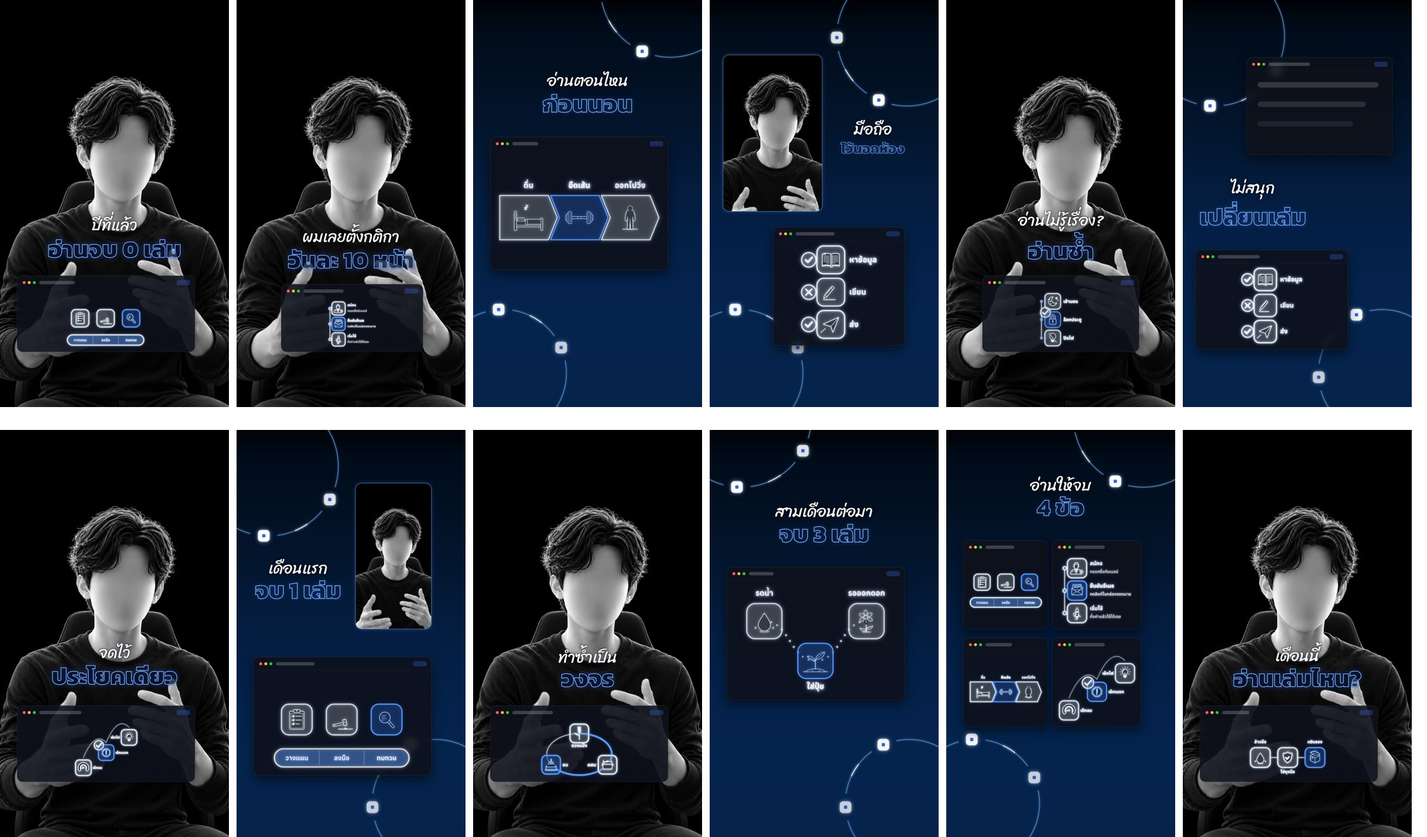
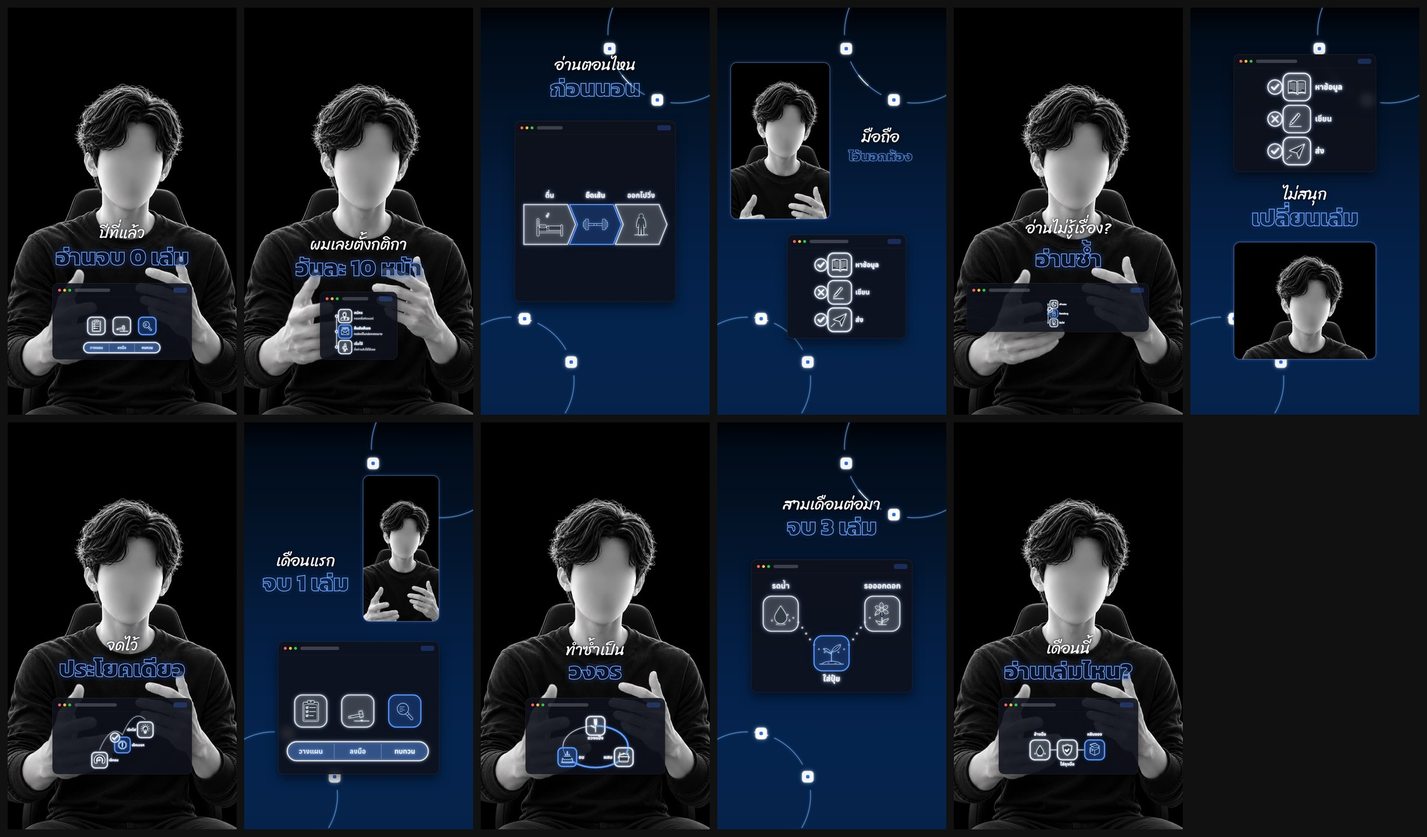
CutPack window.md: brought up to the code (final v2 status and history, stack for cascade, no ring lift, no drawing-size filter, screen choice in code order, hook bug noted, 3-scenario results); still sheet remade for v2 with the stand-in
Claude-Session: https://claude.ai/code/session_01S8EfU7YjmNDhxhQLi4N7NF

diff --git a/cutpack/style-rules/window.md b/cutpack/style-rules/window.md
@@ -1,4 +1,4 @@
-# สกิล "หน้าต่างแอป" (App Window · `window`) · ฉบับ final
+# สกิล "หน้าต่างแอป" (App Window · `window`) · ฉบับ final รุ่น 2
 
 **อ่านคู่กับ `common.md` เสมอ** (ขั้นตอนทำคลิป 8 ขั้น · งาน AI 2 งาน · กฎทุกสไตล์ · ภาพ · ซับ · กล้อง · เสียง) ไฟล์นี้บอกเฉพาะของหน้าต่างแอป
 สร้างคลิปสไตล์นี้: ทำตาม `common.md` ทุกขั้น โดยใส่ `<สไตล์>` = `window` (สรุปคำสั่งหัวข้อ 16)
@@ -10,7 +10,7 @@
 - สไตล์ที่ 3 จาก 12 สไตล์ใหม่ ลอกจากรูป 12 ช็อตโทนน้ำเงินที่ Friend ส่ง (2026-11-18: "สไตล์ต่อไปครับ")
 - ดราฟแรก 2026-11-18 (Friend: "ดราฟแรกผ่านครับ") · ภาพนิ่งดราฟแรก `library/styles/03_window_draft1.jpg`
 - **final ผ่าน 2026-11-18** (Friend: "สไตล์นี้ final ผ่านแล้วครับ update ไฟล์ skill ด้วย") · ภาพนิ่ง final `library/styles/03_window_final.jpg` (ภาพคนจำลอง)
-- **รุ่น 2 (2026-11-19 · ลงโค้ดแล้ว รอ Friend ดู):** มาตรฐาน 7 ขนาด (หัวข้อ 4.1 · Friend: "ใส่ระบบ ขนาด 7 ขนาดด้วย") · hook (หัวข้อ 5.4 · "ใส่ระบบ hook ให้สไตล์นี้") · ตัดจอ `recap` 4 หน้าต่าง ("เอาฉากนี้ออก") · คำพูดเต็ม DECISIONS
+- **final รุ่น 2 ผ่าน 2026-11-20** (Friend ดูคลิป 3 scenario แล้ว: "สไตล์หน้าต่างแอป ผ่านแล้วครับ") · ภาพนิ่ง `library/styles/03_window_final.jpg` (ทำใหม่ 2026-11-24 ภาพคนจำลอง) · ของที่เพิ่มในรุ่น 2: มาตรฐาน 7 ขนาด (หัวข้อ 4.1) · hook (หัวข้อ 5.4) · ตัดจอ `recap` และ `cascade` · จอ `stack` ใหม่ · หน้าต่างจอ ก กลางจอ · ซับเหนือหัวเมื่อใต้คางไม่มีที่ (หัวข้อ 6.1) · ก : ข = 60 : 40 · เลิกคัดจอด้วยขนาดภาพข้างใน · จอน้ำเงินต่อจอน้ำเงินไม่เผยหน้าคั่น · วงแหวนอยู่ที่เดิมหมุนต่อเนื่อง ลูกปัด 6 เม็ด (ตารางคำตัดสินหัวข้อ 15.1 · คำพูดเต็ม DECISIONS)
 - งาน final เริ่มจากคลิปหน้าต่างแอปที่ Friend ส่ง (`edit_2.mp4` ทำก่อนกฎ "เปิดด้วยหน้า" และ "ก/ข เท่ากัน") · จุดแก้ของ Friend หัวข้อ 15
 - ต่างจากรูปของ Friend ตามที่ Friend สั่ง:
   - ไม่มีแถบบทมุมซ้ายบนและป้ายเล็กเหนือคำ ("ลบที่ผมวงกลมสีแดงออกด้วยครับทุกฉากเลย")
@@ -23,7 +23,7 @@
 ## 1. หน้าตาโดยรวม
 | ข้อ | หน้าต่างแอป |
 |---|---|
-| กรอบ | 12 จอ: คนเต็มจอมีหน้าต่างที่มือ (6 แบบ) หรือ **เหนือหัว** · จอน้ำเงิน **หน้าต่างใหญ่กลางจอ** · จอน้ำเงินมีหน้าในกรอบซ้ายบนหรือขวาบน · หน้าต่างซ้อน · ระหว่างภาพคนพูด คำที่อก |
+| กรอบ | 12 จอ: คนเต็มจอมีหน้าต่างที่มือ (6 แบบ) หรือ **เหนือหัว** · จอน้ำเงิน **หน้าต่างใหญ่กลางจอ** (2 แบบ) · จอน้ำเงินมีหน้าในกรอบซ้ายบนหรือขวาบน (`float` `stats`) · จอน้ำเงินหน้าต่างบน คำกลาง หน้าในกรอบล่าง (`stack`) · ระหว่างภาพคนพูด คำที่อก |
 | พื้น | จอน้ำเงินไล่จากเกือบดำด้านบนเป็นกรมท่าด้านล่าง · มุมบนกับมุมล่างมีวงกลมเส้นเดียวเรืองฟ้า ขาดเป็นช่วงตรงที่มีชิปขาว หมุน มีแสงวิ่ง · ภาพอยู่ใน **หน้าต่างแอปสีเกือบดำ** จุดสามสี หัวหน้าต่างแบบ skeleton |
 | ภาพ | glow-line กระจกเทา เส้นขาวเรืองฟ้า ชิ้นที่ติดไฟเป็นขอบฟ้า ไม่ถมทึบ · คนในภาพตัวเทาฟ้า · **ภาพที่วาดเสร็จอยู่กลางหน้าต่าง** (จอไม่มีหน้า) · **คำในภาพไม่มีกล่องและไม่มีขอบมืด** |
 | สี | น้ำเงินเข้ม · หน้าต่างเกือบดำ · ขาว · ฟ้า (คำเด่น `#6FA6FF` · หน้าต่างและชิป `#2F6FEB`) |
@@ -38,7 +38,7 @@
 | หน้าต่าง | มุม 26 · พื้น `rgba(13,17,27,.9)` เบลอข้างหลัง 14 · ขอบ 1.5 px `rgba(255,255,255,.14)` · เงา · แถบหัวสูง 64 เส้นใต้จาง |
 | จุดสามสี | 14 px ที่ x 26 / 50 / 74 y 25: `#FF5F57` `#FEBC2E` `#28C840` |
 | skeleton ชื่อ | แท่งขอบมนสูง 16 ที่ x 104 y 24 `rgba(230,237,248,.22)` ยาว = น้อยกว่าระหว่าง (กว้างหน้าต่าง × .34) กับ (110 + 90 × เลขสุ่มของรอบ) |
-| skeleton ป้าย | แคปซูลเปล่า 64 × 24 มุม 9 ห่างขวา 22 y 20 `rgba(60,120,255,.28)` (หน้าต่างของจอสรุปไม่มี) |
+| skeleton ป้าย | แคปซูลเปล่า 64 × 24 มุม 9 ห่างขวา 22 y 20 `rgba(60,120,255,.28)` |
 | ภาพในหน้าต่าง | `[22, 76, กว้าง − 44, สูง − 98]` (ใต้แถบหัว) |
 | กรอบหน้าคน | ขอบ 2 px `rgba(130,180,255,.65)` เรือง · หน้ากว้าง 42% ของกรอบ (faceY .4) วิดีโอเต็มกรอบ |
 | **คำนำ** `.w-lead` | **Sriracha** (`fonts/Sriracha-Regular.ttf` ตัวเดียวกับคำเด่นลายมือของเขียวมะนาว) 400 · **74 px** · ระยะบรรทัด 1.2 · `#F4F7FC` · เงาดำ 3 / 10 / 18 px |
@@ -62,14 +62,14 @@
 | – | `talk` | คนพูด (ระหว่างภาพ) | – | (540, 1062) · (540, 1175) |
 | 01 | `full` | ก คนพูด | หน้าต่าง `[80, 1300, 840, 360]` ที่มือ | (540, 1062) · (540, 1175) |
 | 02 | `full_n` | ก คนพูด | หน้าต่างแคบ `[210, 1340, 670, 320]` | (540, 1117) · (540, 1226) |
-| 03 | `dark` | ข จอน้ำเงิน | **หน้าต่าง `[80, 645, 840, 630]` กลางจอ** (กลาง y 960) · วงแบบ 0 ยกขึ้น 230 | **(540, 381) · (540, 490)** |
+| 03 | `dark` | ข จอน้ำเงิน | **หน้าต่าง `[80, 645, 840, 630]` กลางจอ** (กลาง y 960) | **(540, 381) · (540, 490)** |
 | 04 | `float` | ข จอน้ำเงิน | กรอบหน้า `[62, 258, 470, 740]` มุม 30 · หน้าต่าง `[300, 1070, 620, 560]` | ขวา (770, 610) · (770, 700) กว้างสุด 470 |
 | 05 | `full_w` | ก คนพูด | หน้าต่างกว้าง `[170, 1300, 740, 360]` | (540, 1040) · (540, 1183) |
-| 06 | **`stack`** (แทน `cascade` 2026-11-20) | ข จอน้ำเงิน | หน้าต่าง `[60, 220, 860, 470]` บนสุด · **กรอบหน้าคนพูดกล่องเท่ากันเป๊ะ** `[60, 1190, 860, 470]` มุม 30 ก้นชิด 1660 (Friend: "ให้ขนาดของการ์ดกับขนาดของช่องที่คนอยู่มันเท่ากันเหมือน reference") · หน้าในกรอบกว้าง 30% อยู่กลางกรอบ (`inset`) | กลางช่องว่างระหว่างกัน กึ่งกลางที่ y 940 เสมอ (540, 885) · (540, 995) |
+| 06 | **`stack`** (แทน `cascade` 2026-11-20) | ข จอน้ำเงิน | หน้าต่าง `[60, 220, 860, 470]` บนสุด · **กรอบหน้าคนพูดกล่องเท่ากันเป๊ะ** `[60, 1190, 860, 470]` มุม 30 ก้นชิด 1660 (Friend: "ให้ขนาดของการ์ดกับขนาดของช่องที่คนอยู่มันเท่ากันเหมือน reference") · หน้าในกรอบกว้าง 30% อยู่กลางกรอบ (`inset`) | ในตาราง (540, 885) · (540, 995) · **ในคลิปโค้ดคิดใหม่ทุกครั้ง** (`winShape`): สองแถวรวมกันกึ่งกลางที่ y 940 → (540, 880) · (540, 990) |
 | 07 | `full_d` | ก คนพูด | หน้าต่าง `[80, 1300, 840, 360]` | (540, 1051) · (540, 1161) |
 | 08 | `stats` | ข จอน้ำเงิน | กรอบหน้า `[560, 250, 360, 690]` มุม 30 · หน้าต่าง `[80, 1070, 840, 560]` | ซ้าย (290, 653) · (290, 756) กว้างสุด 440 |
 | 09 | `full_c` | ก คนพูด | หน้าต่าง `[80, 1300, 840, 360]` | (540, 1073) · (540, 1172) |
-| 10 | `dark_b` | ข จอน้ำเงิน | **หน้าต่าง `[80, 645, 840, 630]` กลางจอ** · วงแบบ 1 ยกขึ้น 230 | **(540, 385) · (540, 490)** |
+| 10 | `dark_b` | ข จอน้ำเงิน | **หน้าต่าง `[80, 645, 840, 630]` กลางจอ** | **(540, 385) · (540, 490)** |
 | 12 | `cta` | ก คนพูด | หน้าต่าง `[80, 1300, 840, 360]` | (540, 1066) · (540, 1172) |
 | ใหม่ | **`full_top`** | ก คนพูด | **หน้าต่างเหนือหัว `[120, 220, 840, สูง]`** สูง = น้อยกว่าระหว่าง 560 กับ (ขอบบนกรอบหน้า − 140 − 220) · เตี้ยกว่า 260 = ใช้ไม่ได้ | (540, 1062) · (540, 1175) |
 
@@ -94,49 +94,52 @@
 | `dark` `dark_b` | **กว้างได้ 760** · สูงได้ `maxH` (ข้อ 6) | **5 หรือ 6 สุ่ม 60:40** | กลางจอ (กลาง y 960) |
 | `float` | 300–920 · 1070–1660 | **3 → 5** | ขอบบน 1070 · กลางแนวนอนในห้อง |
 | `stats` | **(1080 − ขอบขวากรอบหน้า) ถึงขอบขวากรอบหน้า** = 160–920 · ใต้กรอบหน้า + 90 (1030) ถึง 1660 | **5 → 2** | **กลางจอ x 540 · ขอบขวาตรงขอบขวากรอบหน้า · ก้นที่ 1660** (Friend 2026-11-19: "อยากให้เส้นสีแดงกับเส้นสีเหลืองที่ผมขีดไว้ตรงกัน แต่การ์ดต้องอยู่กึ่งกลางจอนะ" · "ทำแค่ฉากนี้ฉากเดียว") · ผล: ขนาด 5 88% = 760 × 627 ที่ y 1033 |
-| `stack` | ใช้สูตรของตัวเอง (ไม่ใช้ห้องแบบจออื่น): กว้างไม่เกิน 860 · สูงไม่เกิน (1440 − ช่องคำ) ÷ 2 เมื่อ 1440 = 220 ถึง 1660 และช่องคำ = ความสูงแถวคำ + เว้น 60 บนล่าง | **5 → 2 → 3** | หน้าต่างห้อยจาก 220 · **กรอบหน้าคนพูด = ขนาดเดียวกันเป๊ะ** ก้นชิด 1660 · ทั้งคู่กลางจอ x 540 · คำอยู่กลางช่องว่าง (กึ่งกลาง y 940 เสมอ) · ผลจริง ขนาด 5 ที่ 78% = 671 × 554 (Friend 2026-11-20: "ใช้การ์ดใหญ่แล้วทำให้มันเหมือน ref ไม่ได้หรอ" → ใช้ขนาด 5 ทรงใกล้ ref แทนขนาด 2 ที่เตี้ย) |
+| `stack` | ใช้สูตรของตัวเอง (ไม่ใช้ห้องแบบจออื่น): กว้างไม่เกิน 860 · สูงไม่เกิน (1440 − ช่องคำ) ÷ 2 เมื่อ 1440 = 220 ถึง 1660 และช่องคำ = ความสูงแถวคำ + เว้น 60 บนล่าง | **5 → 2 → 3** | หน้าต่างห้อยจาก 220 · **กรอบหน้าคนพูด = ขนาดเดียวกันเป๊ะ** ก้นชิด 1660 · ทั้งคู่กลางจอ x 540 · คำอยู่กลางช่องว่าง (กึ่งกลาง y 940 เสมอ) · ผลจริง ขนาด 5 ที่ 78% = 672 × 555 (คำนวณจากโค้ด 2026-11-24 · ฉบับก่อนเขียน 671 × 554) (Friend 2026-11-20: "ใช้การ์ดใหญ่แล้วทำให้มันเหมือน ref ไม่ได้หรอ" → ใช้ขนาด 5 ทรงใกล้ ref แทนขนาด 2 ที่เตี้ย) |
 
 6. **`dark` `dark_b`** (แบบเขียวมะนาว):
    - สุ่ม `cpRand('size' + ลำดับภาพ)`: ≥ .6 = ขนาด 6 · น้อยกว่า = ขนาด 5 (ไม่มีเลขสุ่ม เช่นตอนวัดขนาดล่วงหน้า = 5) · ขนาดที่สุ่มได้ไม่ถึง 65% = อีกขนาด
    - `maxH = 2 × (960 − (220 + 45 + ระยะคำนำถึงคำเด่น + 65 + 90))` · s = น้อยกว่าระหว่าง 1 · **760** ÷ กว้าง · maxH ÷ สูง (Friend 2026-11-20: "4. ข" ให้อยู่กลางจอเป๊ะ · เดิม 860 แล้วเยื้องซ้าย 50)
    - หน้าต่างกลางจอ y 960 · **กลางจอ x 540 เป๊ะ** (กว้างไม่เกิน 760 = x 160–920 ไม่เข้าโซนปุ่ม TikTok · โค้ดยังกันไม่ให้เกิน 60–920) · คำเด่นอยู่เหนือหน้าต่าง 90 (ขอบล่างแถวคำเด่น = กลาง + 65) · คำนำห่างคำเด่นเท่าเดิม · คำนำไม่ขึ้นเกิน 220 (แถบค้นหา)
-   - วงแหวนบนยกขึ้นตามคำ (`ringUp` = 230 + ที่หน้าต่างสูงเกิน y 645)
+   - วงแหวนไม่ขยับตามคำแล้ว (เลิก `ringUp` 2026-11-20 · หัวข้อ 3)
    - ผลจริง: ขนาด 5 = 760 × 628 (88%) · ขนาด 6 = 760 × 853 (88%)
-7. ภาพนิ่งทดสอบ (บังคับจอ `meta.layout`) ใช้ห้องตามรูป ไม่ดูหน้า: `full` = ขนาด 2 77% (659 × 360) · `full_n` = 3 65% (366 × 320) · `full_w` = 1 100% · `float` = 3 100% · `stats` = 5 88% (760 × 627) · `stack` = 2 100% (860 × 470)
+7. ภาพนิ่งทดสอบ (บังคับจอ `meta.layout`) ใช้ห้องตามรูป ไม่ดูหน้า: `full` = ขนาด 2 77% (659 × 360) · `full_n` = 3 65% (366 × 320) · `full_w` = 1 100% · `float` = 3 100% · `stats` = 5 88% (760 × 627) · `stack` = 5 78% (672 × 555 · สูตรของตัวเอง ไม่ใช้ห้องตามรูป)
 
 ## 5. วิธีเลือกจอและภาพ (โค้ดทำเองทั้งหมด `frame`)
 ### 5.1 แบบของภาพ (ทุกสไตล์ `common.md` · `tools/fit_pick.js`)
-`clip_plan.py` วัดทุกแบบในคลังด้วยคำของคลิปนั้น ถาม `fitSize` (`cpFitSize` เก็บ .75 · จอ ก ใช้ขั้นต่ำ `CP.speakerFloor`) แล้วสุ่มจากแบบที่ใหญ่ · `frame()` ใช้ทรงจริงของภาพ (`cpShape` จาก `REAL_SHAPES`) · `fitSurface` = พื้นจอน้ำเงิน
+`clip_plan.py` วัดทุกแบบในคลังด้วยคำของคลิปนั้น ถาม `fitSize` = ค่าเฉลี่ยขนาดภาพของทุกจอที่หน้าให้ที่ (`cpFitSize` keep 0 · `CP.speakerFloor = 0`: ไม่ตัดจอไหนออก) แล้วสุ่มจากแบบที่ใหญ่ · **ใช้เลือกแบบภาพเท่านั้น ไม่ใช้เลือกจอ** (`common.md` 4.1 กฎ 8) · `frame()` ไม่ดูทรงของภาพเลย · `fitSurface` = พื้นจอน้ำเงิน
 
-### 5.2 จอของแต่ละภาพ
-1. ประโยคชวนกดติดตาม (B15) → `cta` · ประโยคเด็ด (B14) → `dark` (ถ้าหน้าให้ที่)
-2. ที่เหลือจากกอง 12 จอ: `full` `full_n` `dark` `float` `full_w` `cascade` `full_d` `stats` `full_c` `dark_b` `cta` `full_top`
-   - ไม่ซ้ำจอก่อนหน้า
-   - **`winFit` ปรับจอคนพูดให้เข้ากับหน้าช่วงนั้น** (ทุกจอ ก รวม `talk` และ `full_top`):
-     1. คำที่อก (และขอบบนหน้าต่างล่าง) เลื่อนลงให้อยู่ใต้คาง 30 · คำเด่นไม่หลุดล่าง 1660 → ใช้ตำแหน่งนี้ · ห้องของหน้าต่าง = ใต้คำถึง 1660 (`full_top`: 220 ถึงเหนือหัว 140) แล้ว `winShape` หาขนาดตามหัวข้อ 4.1 · ไม่มีขนาดถึง 65% = ใช้ไม่ได้
-     2. **คำเด่นหลุด 1660 (ใต้คางไม่มีที่) → ซับเหนือหัว เฉพาะตอนนี้** (หัวข้อ 6.1) · จอที่หน้าต่างอยู่ใต้หน้า = ใช้ไม่ได้
-   - จอน้ำเงินใช้ได้เสมอ
-   - ไม่มีจอไหนให้ที่ → `dark` `float` `cascade`
-3. **ไม่มีการคัดจอด้วยขนาดภาพข้างในเลย** (ลบ `cpSizeKeep` + `cpShape` ออกจาก `frame` แล้ว 2026-11-20 · `setup` ตั้ง `CP.speakerFloor = 0` · `common.md` 4.1 กฎ 8 · Friend: "เรายังคัดจากขนาดภาพข้างในอยู่อีกหรอ") = ทุกจอที่หน้าต่างถึง 65% ของขนาดมาตรฐาน (หัวข้อ 4.1) อยู่ในกองเท่ากันหมด · ก่อนแก้ จอที่หน้าต่างเล็กกว่า (`float` 560 × 490) แพ้ `dark` (760 × 628) ทุกครั้ง จึงไม่เคยขึ้นเลย
-4. **ก : ข = 60 : 40** (`winBalance` · `WIN.speakerShare = .6` · Friend 2026-11-20: "สไตล์นี้ผมอยากให้ลดฉากสีน้ำเงินลงนิดนึงแล้วก็เพิ่มฉากโอเวอร์เลย์มากขึ้นหน่อย" → "E ครับ"): ภาพที่ลงได้ทั้งสองแบบ เลือกแบบที่คลิปใช้ไปน้อยกว่าสัดส่วน (ใช้แล้ว ÷ สัดส่วน น้อยกว่า) · เท่ากัน = สุ่มจากเลขของรอบ ถ่วง 60:40 · ลงได้แบบเดียว = แบบนั้น · (สไตล์อื่นใช้ `cpBalance` 50:50)
-5. **จอ ก: หน้าต่างบนหัวกับหน้าต่างล่างเท่ากัน** (final ข้อ 3, Friend: "เพื่อความหลากหลาย"): ถ้ากองมีทั้งสองแบบ เลือกแบบที่คลิปใช้น้อยกว่า (`WIN.place {top, low}`) เท่ากันสุ่มจากเลขของรอบ (`cpRand('place' + ลำดับ)`) · หน้าสูงจนเหนือหัวไม่มีที่ = ล่างอย่างเดียว
-6. จอที่ใช้น้อยที่สุดก่อน แล้วสุ่มจากเลขของรอบ
+### 5.2 จอของแต่ละภาพ (ทำตามลำดับ ทุกข้อเป็นโค้ด)
+**`winFit` ปรับจอคนพูดให้เข้ากับหน้าช่วงนั้น** (ทุกจอ ก รวม `talk` และ `full_top` · จอน้ำเงินใช้ได้เสมอ):
+- ก. คำที่อก (และขอบบนหน้าต่างล่าง) เลื่อนลงให้อยู่ใต้คาง 30 · คำเด่นไม่หลุดล่าง 1660 → ใช้ตำแหน่งนี้ · ห้องของหน้าต่าง = ใต้คำถึง 1660 (`full_top`: 220 ถึงเหนือหัว 140) แล้ว `winShape` หาขนาดตามหัวข้อ 4.1 · ไม่มีขนาดถึง 65% = ใช้ไม่ได้
+- ข. **คำเด่นหลุด 1660 (ใต้คางไม่มีที่) → ซับเหนือหัว เฉพาะตอนนี้** (หัวข้อ 6.1) · จอที่หน้าต่างอยู่ใต้หน้า = ใช้ไม่ได้
+
+ลำดับการเลือก:
+1. ประโยคชวนกดติดตาม (B15) → `cta` · ประโยคเด็ด (B14) → `dark` · ใช้เมื่อ `winFit` ผ่าน · ภาพ hook ใช้ได้เฉพาะ `cta` (`dark` ไม่ใช่จอ ก) · ข้อนี้ไม่ดูจอของภาพก่อนหน้า · ไม่ได้ = ไปข้อ 2
+2. กอง 12 จอ `full` `full_n` `dark` `float` `full_w` `stack` `full_d` `stats` `full_c` `dark_b` `cta` `full_top` เก็บจอที่ไม่ใช่จอของภาพก่อนหน้า และ `winFit` ผ่าน
+3. ภาพ hook: ถ้ากองมีจอ ก เหลือแต่จอ ก (หัวข้อ 5.4)
+4. กองว่าง → `dark` `float` `stack` (ตัดจอของภาพก่อนหน้า) · กันพังเท่านั้น: ไม่เกิดจริง เพราะจอน้ำเงิน 5 จอใช้ได้เสมอ (ตัดจอก่อนหน้าแล้วยังเหลืออย่างน้อย 4)
+5. **ไม่มีการคัดจอด้วยขนาดภาพข้างในเลย** (ลบ `cpSizeKeep` + `cpShape` ออกจาก `frame` แล้ว 2026-11-20 · `setup` ตั้ง `CP.speakerFloor = 0` · `common.md` 4.1 กฎ 8 · Friend: "เรายังคัดจากขนาดภาพข้างในอยู่อีกหรอ") = ทุกจอที่หน้าต่างถึง 65% ของขนาดมาตรฐาน (หัวข้อ 4.1) อยู่ในกองเท่ากันหมด · ก่อนแก้ `float` ไม่เคยขึ้นเลย
+6. **ก : ข = 60 : 40** (`winBalance` · `WIN.speakerShare = .6` · Friend 2026-11-20: "สไตล์นี้ผมอยากให้ลดฉากสีน้ำเงินลงนิดนึงแล้วก็เพิ่มฉากโอเวอร์เลย์มากขึ้นหน่อย" → "E ครับ"): จอ ก = จอ `speaker` · จอ ข = จอน้ำเงินทั้งหมด (รวม `float` `stats` `stack` ที่มีหน้าในกรอบ) · กองมีทั้งสองแบบ → เก็บแบบที่คลิปใช้ไปน้อยกว่าสัดส่วน (ใช้แล้ว ÷ สัดส่วน น้อยกว่า) · เท่ากัน = สุ่ม `cpRand('kind' + ลำดับ)` ถ่วง 60:40 · มีแบบเดียว = แบบนั้น · (สไตล์อื่นใช้ `cpBalance` 50:50) · ภาพจากข้อ 1 ไม่ถูกนับในสัดส่วนนี้
+7. **จอ ก: หน้าต่างบนหัวกับหน้าต่างล่างเท่ากัน** (final ข้อ 3, Friend: "เพื่อความหลากหลาย"): ถ้ากองมีทั้งสองแบบ เลือกแบบที่คลิปใช้น้อยกว่า (`WIN.place {top, low}`) เท่ากันสุ่มจากเลขของรอบ (`cpRand('place' + ลำดับ)`) · หน้าสูงจนเหนือหัวไม่มีที่ = ล่างอย่างเดียว · `full_top` เป็นจอบนหัวจอเดียว จึงขึ้นบ่อยเท่ากับจอล่าง 6 จอรวมกัน (ตัวจำลองคลิปถ่ายไกล 2026-11-24: `full_top` ราวครึ่งหนึ่งของจอ ก)
+8. จอที่ใช้น้อยที่สุดก่อน แล้วสุ่มจากเลขของรอบ (`cpRand('screen' + ลำดับ)`)
 - ช่วงพูดระหว่างภาพ: `talk` เสมอ (คำที่อก เลื่อนลงใต้คางถ้าหน้าต่ำ · ใต้คางไม่มีที่ = เหนือหัว หัวข้อ 6.1 · เหนือหัวก็ไม่มีที่ = ตำแหน่งตามรูป ซึ่งทับหน้าได้ ยังไม่เคยเจอ)
 - คลิปเปิดด้วยคนพูดเสมอ (สไตล์นี้ไม่มี `openFace` · `common.md`)
+
+### 5.3 ภาพกลางหน้าต่าง (final ข้อ 4)
+จอน้ำเงินที่ไม่มีกรอบหน้า (`L.screen && !L.frame` = `dark` `dark_b`) ส่ง `room: {l: 22, t: 8, r: 22, b: 22}` ให้ `glowFit` (`motionFit`): มุมมองขยาย **เท่ากันทุกด้านรอบภาพที่วาดเสร็จ** (ไม่เกิน 1.6 เท่า) ภาพตอนจบอยู่กลางหน้าต่างพอดี · เดิมขยายรอบท่าขยับทั้งหมด ภาพเลยไปกองด้านล่าง (Friend: "ตอนนี้มันอยู่เกือบติดขอบล่าง") · ท่าขยับที่ใหญ่กว่านั้นโดนขอบหน้าต่างตัดระหว่างขยับ (เช่น วงรอบแว่นขยาย วินาที 37 ของคลิปทดสอบ) · จอที่มีหน้าและจอ ก ใช้แบบเดิม (`room` null)
+
 
 ### 5.4 hook (2026-11-19 · Friend: "ใส่ระบบ hook ให้สไตล์นี้" · ทดลองสไตล์ที่ 2 ต่อจากเขียวมะนาว)
 1. `RULES['window']` มี `hook=(1.8, 3.2)` → `clip_plan.py` (`with_hook`) ให้คนพูดล้วนกับซับถึงบรรทัดแรกที่เริ่มในช่วง 1.8–3.2 วินาที แล้วภาพแรกเริ่มที่บรรทัดนั้น (ทำงานเหมือน `lime.md` หัวข้อ 5 ทุกข้อ) · แผนพิมพ์ `hook: the speaker alone to <วินาที> s …` และ `plan_window.js` มี `RUN.hook = true`
 2. **ตรวจก่อนวางแผน (`hookOK` · 2026-11-20 Friend: "1. ก" · ข้อ 1 ข. "ไม่ทำ hook ในคลิปนั้น")**:
-   - `tools/fit_pick.js` ถามสไตล์ `ST.hookOK(t0, t1)` = ช่วงนั้นมีจอ ก ที่หน้าต่างได้ขนาดมาตรฐาน (`winFit`) ไหม · ไม่วัดขนาดภาพข้างใน (กฎ 8)
+   - `tools/fit_pick.js` ถามสไตล์ `ST.hookOK(ar, t0, t1)` = ช่วงนั้นมีจอ ก ที่หน้าต่างได้ขนาดมาตรฐาน (`winFit`) ไหม · ไม่วัดขนาดภาพข้างใน (กฎ 8) · ไม่ดูทรงภาพ `ar` (รับไว้ตามรูปแบบของ `fit_pick.js`)
    - ภาพแรกเลือกได้เฉพาะแบบที่ผ่าน · **ไม่มีแบบไหนผ่าน → `clip_plan.py` วางแผนใหม่แบบไม่มี hook** (เปิดแบบเดิม ภาพแรกตามที่ AI วาง) พิมพ์ `window: hook: no speaker screen has room for the first picture, planned again without the hook`
    - โค้ดกลางนี้เปิดเฉพาะสไตล์ที่มี `hookOK` (ตอนนี้หน้าต่างแอปเท่านั้น) · สไตล์อื่นได้แผนเหมือนเดิมทุกจุด (ตรวจเขียวมะนาวและนีออนฟ้า seed 449159 แล้ว)
+   - **บั๊กที่รู้แล้ว (HANDOFF · ยืนยัน 2026-11-24 ด้วยตัวจำลอง):** `hookOK` และข้อ 3 นับแค่จอ ก ไม่นับจอน้ำเงินที่มีหน้าในกรอบ (`float` `stats` `stack`) ทั้งที่ Friend บอกว่า "เปิดคลิปด้วยหน้าในกรอบเล็กนับด้วยครับ" → คลิปถ่ายใกล้ไม่ได้ hook เลย (300/300 seed) · Friend สั่งแก้ในงานข้อ 3
 3. `frame` ภาพแรก (`index 0`) เมื่อ `RUN.hook`: จอตามหมวด (`byCat`) ใช้ได้เฉพาะจอ ก · กองสุ่มเหลือแต่จอ ก (`speaker`) ที่หน้าให้ที่
-4. กันพังเท่านั้น (ข้อ 2 ทำให้ไม่ควรเกิด): ไม่มีจอ ก ไหนให้ที่ = กองปกติ · จอ ก ให้ที่แต่ภาพต่ำกว่าขั้นต่ำทุกจอ = จอ ก ที่ภาพใหญ่สุด (ไม่ปล่อยกองว่าง)
+4. กันพังเท่านั้น (ข้อ 2 ทำให้ไม่ควรเกิด): ไม่มีจอ ก ไหนให้ที่ = กองปกติ
 5. ผล (2026-11-20 ก่อนเลิกขั้นต่ำ): คลิป 4 ภาพแรกทรงแถบยาวใน `full_top` ขนาด 1 · คลิป 2 (หน้าต่ำมาก ไม่มีที่ทั้งเหนือหัวและใต้คาง): ไม่มี hook
 6. ผลคลิป 3 (71.4 วินาที คลิปเดียวกับ final เก่าที่ Friend ส่ง · seed 176294): คนพูดล้วนถึง 2.72 วินาที ภาพแรกจอ `cta` ขนาด 2 77%
-
-### 5.3 ภาพกลางหน้าต่าง (final ข้อ 4)
-จอน้ำเงินที่ไม่มีกรอบหน้า (`L.screen && !L.frame` = `dark` `dark_b`) ส่ง `room: {l: 22, t: 8, r: 22, b: 22}` ให้ `glowFit` (`motionFit`): มุมมองขยาย **เท่ากันทุกด้านรอบภาพที่วาดเสร็จ** (ไม่เกิน 1.6 เท่า) ภาพตอนจบอยู่กลางหน้าต่างพอดี · เดิมขยายรอบท่าขยับทั้งหมด ภาพเลยไปกองด้านล่าง (Friend: "ตอนนี้มันอยู่เกือบติดขอบล่าง") · ท่าขยับที่ใหญ่กว่านั้นโดนขอบหน้าต่างตัดระหว่างขยับ (เช่น วงรอบแว่นขยาย วินาที 37 ของคลิปทดสอบ) · จอที่มีหน้าและจอ ก ใช้แบบเดิม (`room` null)
 
 ## 6. ซับ (`text`)
 ### 6.1 ซับเหนือหัว (2026-11-20 · Friend: "2. เอาตามที่คุณแนะนำครับ" · ใช้เฉพาะคลิปที่มีปัญหา ไม่ใช่ตำแหน่งถาวร)
@@ -181,35 +184,43 @@
 ## 11. ภาพนิ่งทดสอบ
 - `engine/uni/glow/window_test.js` **11 ช็อต** ตามรูปของ Friend (w11 `recap` ตัดออก 2026-11-19) · รายชื่อ `"window:w01@0 … window:w12@10"`
 - คำสั่ง (จาก `engine/uni/`): `bash tools/style_stills.sh <out> ../../library/styles/speaker_standin.jpg window` → `window 11 ok · 0 outside` · ผลรุ่น 2: สีผ่านครบ 11 ช็อต
-- ภาพนิ่ง final `library/styles/03_window_final.jpg` (6 × 2 ช่อง 360 × 640 · รุ่น 1 ยังมี recap · ทำใหม่เมื่อรุ่น 2 ผ่าน)
+- ภาพนิ่ง final `library/styles/03_window_final.jpg` (6 × 2 ช่อง 360 × 640 · รุ่น 2 ทำใหม่ 2026-11-24 จาก 11 ช็อตด้วยภาพคนจำลอง · ช่องสุดท้ายว่าง)
 
-## 12. ผลคลิปจริง (final, คลิปทดสอบ 41.9 วินาที "เวลาลูกค้า…ให้ถูกจุด" · seed 585652)
+## 12. ผลคลิปจริง
+### 12.0 รุ่น 2 · 3 scenario (2026-11-20 · ซับ Haiku + วางภาพ Sonnet ชุดเดิมของแต่ละคลิป · เรนเดอร์ HQ แล้ว · Friend: "สไตล์หน้าต่างแอป ผ่านแล้วครับ")
+| scenario | คลิป · seed | ผล |
+|---|---|---|
+| ถ่ายใกล้ (หน้าต่ำ) | คลิป 2 · seed 64325 | `OUTSIDE 0` · **ไม่มี hook** (แผนพิมพ์ `no speaker screen has room …` ภาพแรกขึ้นวินาทีที่ 20 · บั๊กหัวข้อ 5.4) |
+| ถ่ายปกติ | คลิป 3 · seed 176294 | `OUTSIDE 0` · −14.1/−14.2 LUFS |
+| ถ่ายไกล | คลิป 5 · seed 673444 | `OUTSIDE 0` · −14.1/−14.2 LUFS |
+
+### 12.1 final รุ่น 1 (คลิปทดสอบ 41.9 วินาที "เวลาลูกค้า…ให้ถูกจุด" · seed 585652)
 - 8 ภาพ 74% ของคลิป · เปิดด้วยคนพูด
 - จอ ก 4: `full_top` 2 (วินาที 5.0 · 25.0) · `full_w` · `full_n` · จอ ข 4: `dark` · `stats` · `dark_b` 2
 - ภาพเฉลี่ย 9% ของจอ (จอ ข 11–17% · จอ ก 2–4%) · 0 หลุดโซน · ทับหน้า 0 · −14.2 LUFS · เรนเดอร์ 211 วินาที
 - คลิปดราฟแรก (seed 84893): 11 ภาพ ภาพเฉลี่ย 12% มีแต่จอ ข
 
-## 12.1 ผลคลิป 3 รุ่น 2 (2026-11-19 · 71.4 วินาที · seed 176294 · build อย่างเดียว ยังไม่เรนเดอร์)
+### 12.2 คลิป 3 ตอนลงโค้ดรุ่น 2 (2026-11-19 · 71.4 วินาที · seed 176294 · build อย่างเดียว · ก่อนแก้ 2026-11-20 ทั้งหมด)
 - 12 ภาพ 62% ของคลิป · hook 2.72 วินาที (`cta`)
 - จอ ก 6: `cta` `full_n` `full_d` 2 `full` `full_c` (ขนาด 2 77% ทุกจอ ยกเว้น `full_n` ขนาด 3 65%) · จอ ข 6: `dark` 3 `dark_b` 3 (ขนาด 5 100% × 3 · ขนาด 6 89–90% × 3)
 - `card_sizes.js`: หน้าต่างตรงขนาดมาตรฐานทุกภาพ (±1 px)
 
 ## 13. รายการค้าง (เล็ก ไม่กระทบ final)
-- ภาพในจอ ก เล็ก (2–4%: หน้าต่างล่างสูง 360 · หน้าต่างบนหัวสูงตามที่ว่าง) แบบภาพถูกเลือกก่อนรู้จอ (Friend ยังไม่ได้ตัดสินว่าจะให้เลือกจอก่อนไหม)
+- แบบภาพถูกเลือกก่อนรู้จอ (งานอนาคตข้อ 2 ใน `README.md` · Friend ยังไม่ได้ตัดสิน) · ภาพชุดเก่าในหน้าต่างอาจดูเล็ก/โล่ง **ไม่ใช่เหตุผลเลือกหรือตัดจอ** (LESSONS 76 · ภาพชุดใหม่จะเต็มทั้ง 7 ขนาด)
 - ท่าขยับใหญ่ของบางภาพโดนขอบหน้าต่างตัดระหว่างขยับ (หัวข้อ 5.3)
 - วงตกแต่งรอบภาพบางวงจางกว่าที่ตัวตรวจกำหนด (2.15–2.56:1) · ชิปของวงแหวนบางชิ้นอยู่หลังหน้าต่าง
-- หน้าต่างหลังของ `cascade` เป็นแถบจาง ๆ
 - ~~ซับทับปาก/คางตอนหน้าต่ำมาก~~ แก้แล้ว 2026-11-20 (หัวข้อ 6.1)
 - ขนาด 1 ที่ 65% (559 × 150) หลังหักแถบหัว 64 ภาพเหลือสูง 52 · Friend 2026-11-20: "ปล่อยไว้แบบนี้ไว้เพราะยังไงเราก็ต้องทำภาพชุดใหม่"
 
 ## 14. ไฟล์โค้ด
 | ไฟล์ | เรื่อง |
 |---|---|
-| `engine/uni/styles/window.js` | จอ 12 แบบ · `winFit` (หน้า · `full_top`) · `WIN_STD` `WIN_ORDER` `WIN_MIN` `winShape` (7 ขนาด) · hook (`RUN.hook`) · css สี ฟอนต์ ซับ · วงแหวน (`ringUp`) · skeleton · เลือกจอ (`WIN.place`) · `room` ของจอไม่มีหน้า · `fitSize` `fitSurface` |
-| `engine/uni/styles/common.js` | `cpFitSize` (เลือกแบบภาพ) `cpBalance` · กฎทุกสไตล์ · (`cpShape` `cpSizeKeep` หน้าต่างแอปไม่ใช้แล้ว 2026-11-20) |
+| `engine/uni/styles/window.js` | จอ 12 แบบ (`WIN.layouts` `WIN.pool` `WIN.byCat`) · `winFit` (หน้า · `full_top` · ซับเหนือหัว) · `WIN_STD` `WIN_ORDER` `WIN_MIN` `winShape` (7 ขนาด · `dark` สุ่ม 5/6 · `stack`) · `winBalance` (60:40) · hook (`RUN.hook` · `hookOK`) · css สี ฟอนต์ ซับ · วงแหวน (`WIN.decor` `WIN.ring` `WIN.spin` `winRingPath`) · skeleton · เลือกจอ (`WIN.place`) · จอน้ำเงินต่อจอน้ำเงิน · `room` ของจอไม่มีหน้า · `fitSize` `fitSurface` |
+| `engine/uni/styles/common.js` | `cpFitSize` (เลือกแบบภาพ) `cpFaceBox` `cpInset` `cpRand` · กฎทุกสไตล์ · (`cpShape` `cpSizeKeep` `cpBalance` หน้าต่างแอปไม่ใช้แล้ว · ใช้ `winBalance` แทน `cpBalance`) |
 | `engine/uni/glow/bridge.js` | `GLOWLOOK.window` `GLASSY.window` · `glowFit` (`room`) · `glowNoPill` · ตัวตรวจสี |
 | `engine/uni/fonts/` | `Kanit-800-*.woff` (คำเด่น) · `Sriracha-Regular.ttf` (คำนำ) |
-| `engine/uni/tools/clip_plan.py` | `RULES['window']` (`hook`) · ฉากตามประเด็น · `fit_picks` · `with_hook` |
+| `engine/uni/tools/clip_plan.py` | `RULES['window']` (`hook`) · ฉากตามประเด็น · `fit_picks` · `with_hook` · วางแผนใหม่เมื่อ `hookFail` |
+| `engine/uni/tools/fit_pick.js` | ถาม `ST.hookOK` สำหรับภาพแรก · ส่ง `hookFail` |
 | `engine/uni/tools/card_sizes.js` | วัดหน้าต่างทุกภาพกับขนาดมาตรฐาน (`data-std`) |
 | `engine/uni/glow/window_test.js` | ภาพนิ่ง 11 ช็อต |
 
@@ -223,12 +234,29 @@
 | 4 | "ทำให้ motion graphic อยู่กึ่งกลาง ... (แค่สไตล์นี้)" → "ข. แต่ระวังอย่าให้การ์ดกับซับไตเติ้ลติดกันมากเกินไป" → "ที่ผมต้องการคือให้การ์ดไปอยู่ตรงกลางของจอเลยและเอา subtitle ขึ้นไปอีกเว้นระยะห่างระหว่างการ์ดเท่าเดิม" | หน้าต่างกลางจอ คำเหนือหน้าต่าง 90 px · ภาพกลางหน้าต่าง (`room`) · วงบนยกขึ้น 230 |
 | 5 | "ลบกรอบตัวหนังสือที่ motion graphic ออกด้วยครับ" | `noPill` (กล่องที่มีแต่คำ) · `noEdge` |
 
+### 15.1 รุ่น 2 (2026-11-19 – 20 · คำพูดเต็มใน DECISIONS)
+| # | Friend | ทำอย่างไร |
+|---|---|---|
+| 1 | "ใส่ระบบ ขนาด 7 ขนาดด้วย" | หน้าต่าง = ขนาดมาตรฐาน (หัวข้อ 4.1) |
+| 2 | "ใส่ระบบ hook ให้สไตล์นี้" · "1. ก" | hook + `hookOK` (หัวข้อ 5.4) |
+| 3 | "เอาฉากนี้ออก" (recap) | ตัดจอ `recap` |
+| 4 | "อยากให้เส้นสีแดงกับเส้นสีเหลืองที่ผมขีดไว้ตรงกัน แต่การ์ดต้องอยู่กึ่งกลางจอนะ" | `stats` หน้าต่างกลางจอ ขอบขวาตรงกรอบหน้า |
+| 5 | "3. ย้ายไปกลางจอ" · "4. ข" | หน้าต่างจอ ก กลาง x 540 · `dark` กว้างไม่เกิน 760 กลางจอเป๊ะ |
+| 6 | "2. เอาตามที่คุณแนะนำครับ" | ซับเหนือหัวเฉพาะตอนใต้คางไม่มีที่ (หัวข้อ 6.1) |
+| 7 | "จังหวะเปลี่ยนฉากมันสลับมาเป็นหน้าผมประมาณเสี้ยววินาทีนึงอะ" | จอน้ำเงินต่อจอน้ำเงิน จอเก่าค้างใต้จอใหม่ (หัวข้อ 7) |
+| 8 | "ลดฉากสีน้ำเงินลงนิดนึง … เพิ่มฉากโอเวอร์เลย์มากขึ้นหน่อย" → "E ครับ" | ก : ข = 60 : 40 · จอ ก ดูแค่ขนาดหน้าต่าง |
+| 9 | "เรายังคัดจากขนาดภาพข้างในอยู่อีกหรอ" → "เริ่มเลย" | เลิก `cpSizeKeep` `cpShape` (หัวข้อ 5.2 ข้อ 5) |
+| 10 | "ลบฉากนี้ออกจากสไตล์ได้เลยครับ" (cascade) · "ใช้การ์ดใหญ่แล้วทำให้มันเหมือน ref ไม่ได้หรอ" | จอ `stack` ขนาด 5 → 2 → 3 กรอบหน้าเท่าหน้าต่าง |
+| 11 | "อยากให้มันอยู่ตำแหน่งเดิมตลอด และหมุนต่อเนื่อง" · ลูกปัด "6 ลูก … ระยะห่างที่มันเท่าๆกันทั้งวง" | วงแหวนคู่เดียว มุมจากนาฬิกาคลิป · ลูกปัด 6 เม็ดห่าง 60° (หัวข้อ 3) |
+| 12 | ขนาด 1 ที่ 65%: "ปล่อยไว้แบบนี้ไว้เพราะยังไงเราก็ต้องทำภาพชุดใหม่" | ไม่แก้ |
+| 13 | "สไตล์หน้าต่างแอป ผ่านแล้วครับ" | final รุ่น 2 |
+
 กฎทุกสไตล์ที่ Friend ย้ำระหว่างทำ final นี้ (บันทึกใน `common.md`): ซับขึ้นทีละก้อนสั้น ไม่ขึ้นทั้งประโยค ("subtitle ต้องแบ่งเป็นคำสั้นๆนะครับไม่ใช่ประโยคยาวๆขึ้นมาทีเดียว")
 
 ## 16. ทำคลิปหน้าต่างแอป 1 คลิป
 ทำตาม `common.md` ข้อ 2 ขั้น 1–8 (คำสั่งเต็มเหมือน `neon.md` หัวข้อ 15) โดยใส่ `window`:
 ```
-cd uni
+cd engine/uni
 python3 tools/clip_plan.py $W $W/faces.json window --history <ลูกค้า.json>        # แผน + fit pick (~30 วินาที)
 NODE_PATH=$(npm root -g) bash tools/build_only.sh $W window $W/bo                   # ดูก่อนเรนเดอร์
 NODE_PATH=$(npm root -g) node tools/picture_sizes.js $W/bo                          # OUTSIDE 0 · LOW
